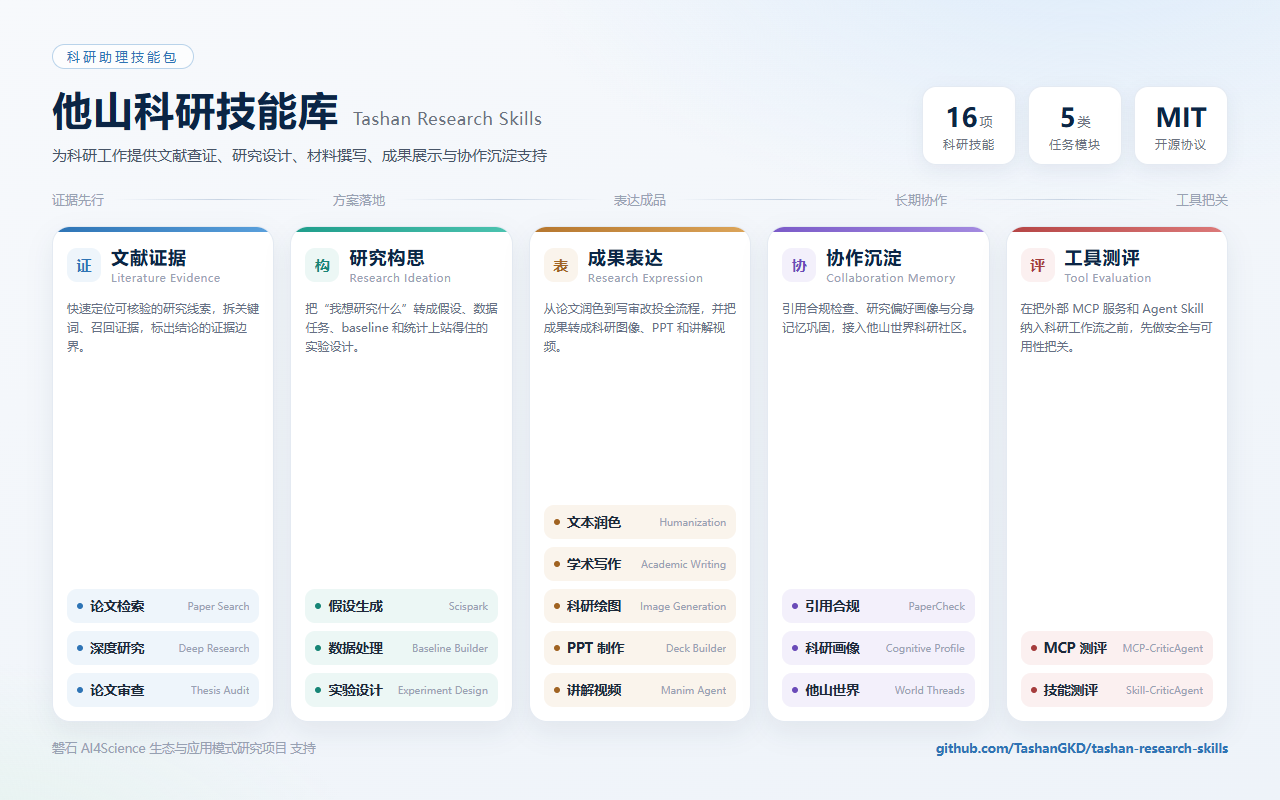
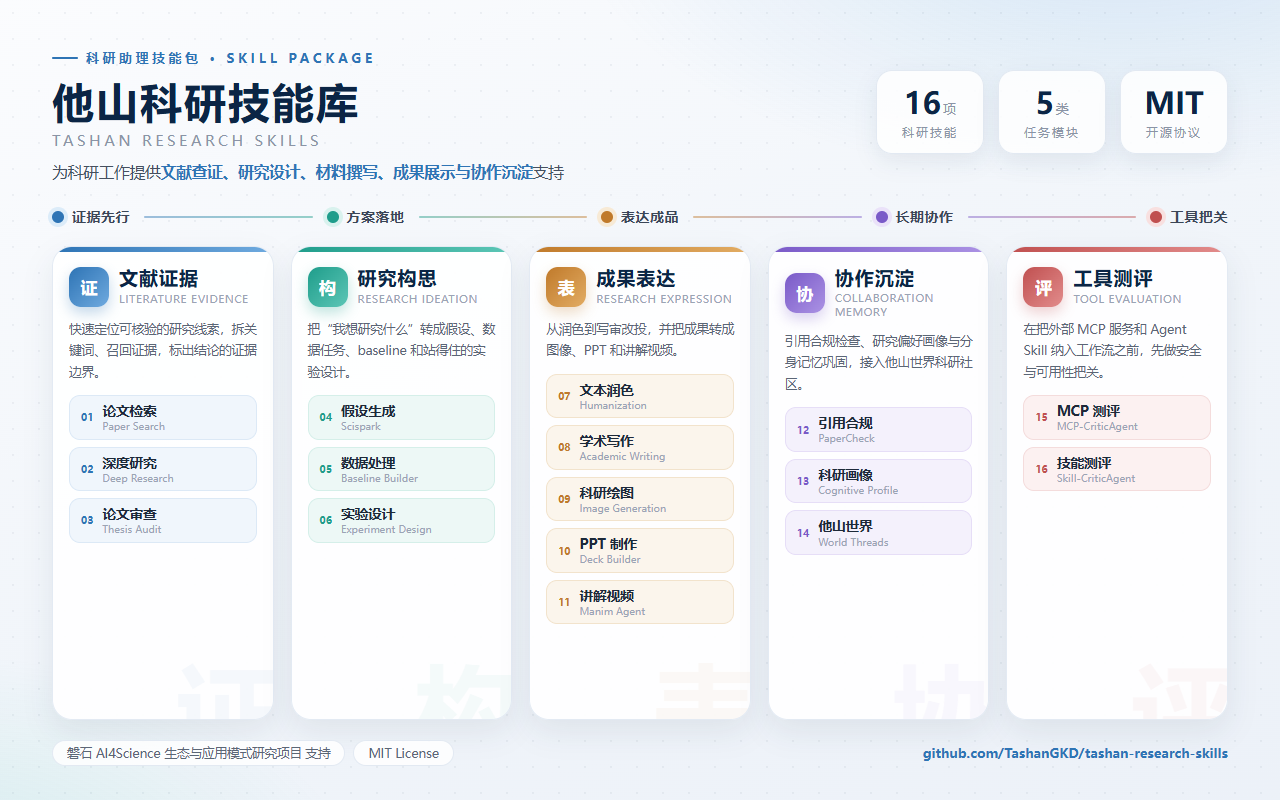
docs(assets): redesign overview art with balanced cards and numbered skill chips

diff --git a/assets/research-skills-overview.html b/assets/research-skills-overview.html
@@ -4,99 +4,134 @@
 <meta charset="UTF-8">
 <title>他山科研技能库 · 概览图</title>
 <!--
-  仓库首页概览图源文件。
-  修改后用浏览器打开，按 1280x800 视口截图，替换 assets/research-skills-overview.png。
+  仓库首页概览图源文件（设计画布 1280x800）。
+  出图方法：浏览器打开 research-skills-overview.html?x2 （画布放大为 2560x1600），
+  对 #canvas 元素截图，替换 assets/research-skills-overview.png。
 -->
 <style>
   * { margin: 0; padding: 0; box-sizing: border-box; }
-  body { font-family: "Microsoft YaHei", "PingFang SC", "Noto Sans SC", sans-serif; }
+  body { font-family: "Microsoft YaHei", "PingFang SC", "Noto Sans SC", sans-serif; background: #e9edf3; }
+
   #canvas {
-    width: 1280px; height: 800px; overflow: hidden;
+    width: 1280px; height: 800px; overflow: hidden; position: relative;
     background:
-      radial-gradient(1000px 500px at 85% -10%, #dcebfa 0%, rgba(220,235,250,0) 60%),
-      radial-gradient(800px 400px at -5% 110%, #e3f2ec 0%, rgba(227,242,236,0) 55%),
-      linear-gradient(160deg, #f7f9fc 0%, #eef3f9 100%);
-    padding: 44px 52px;
-    display: flex;
-    flex-direction: column;
+      radial-gradient(900px 460px at 88% -12%, rgba(90,160,220,.22) 0%, rgba(90,160,220,0) 62%),
+      radial-gradient(760px 420px at -6% 112%, rgba(76,195,176,.18) 0%, rgba(76,195,176,0) 58%),
+      linear-gradient(158deg, #fbfcfe 0%, #f1f5fa 52%, #ecf1f8 100%);
+    padding: 42px 52px 34px;
+    display: flex; flex-direction: column;
+  }
+  /* faint dot texture */
+  #canvas::before {
+    content: ""; position: absolute; inset: 0; pointer-events: none;
+    background-image: radial-gradient(rgba(11,37,69,.05) 1px, transparent 1px);
+    background-size: 26px 26px;
   }
 
-  /* ---------- header ---------- */
-  .header { display: flex; align-items: flex-end; justify-content: space-between; margin-bottom: 12px; }
-  .title-block .kicker {
-    display: inline-block; font-size: 13px; letter-spacing: 3px; color: #2E74B5;
-    border: 1px solid #b9d3ea; border-radius: 999px; padding: 3px 14px; margin-bottom: 14px;
-    background: rgba(255,255,255,.7);
+  /* ================= header ================= */
+  .header { display: flex; align-items: center; justify-content: space-between; position: relative; }
+  .kicker {
+    display: inline-flex; align-items: center; gap: 8px;
+    font-size: 12.5px; letter-spacing: 4px; color: #2E74B5; font-weight: 600;
+    margin-bottom: 12px;
   }
-  .title-block h1 { font-size: 40px; color: #0B2545; letter-spacing: 1px; }
-  .title-block h1 .en { font-size: 17px; font-weight: 500; color: #6B7280; margin-left: 14px; letter-spacing: .5px; }
-  .title-block .tagline { margin-top: 10px; font-size: 15px; color: #475467; }
-  .stats { display: flex; gap: 12px; }
+  .kicker::before { content: ""; width: 26px; height: 2px; background: #2E74B5; border-radius: 2px; }
+  h1 { font-size: 42px; color: #0B2545; letter-spacing: 2px; line-height: 1.15; }
+  h1 .en {
+    display: block; font-size: 15px; font-weight: 500; color: #8a94a6;
+    letter-spacing: 3.5px; margin-top: 6px; text-transform: uppercase;
+  }
+  .tagline { margin-top: 12px; font-size: 15.5px; color: #45505f; }
+  .tagline b { color: #2E74B5; font-weight: 600; }
+
+  .stats { display: flex; gap: 14px; }
   .stat {
-    background: #ffffff; border: 1px solid #e4eaf2; border-radius: 14px;
-    padding: 12px 20px; text-align: center; box-shadow: 0 6px 18px rgba(11,37,69,.06);
+    width: 108px; padding: 16px 0 13px; text-align: center;
+    background: rgba(255,255,255,.85); border: 1px solid #e2e9f2; border-radius: 16px;
+    box-shadow: 0 8px 22px rgba(11,37,69,.07);
   }
-  .stat .num { font-size: 26px; font-weight: 700; color: #0B2545; }
-  .stat .num small { font-size: 13px; font-weight: 500; color: #6B7280; margin-left: 2px; }
-  .stat .label { font-size: 12px; color: #6B7280; margin-top: 2px; letter-spacing: 1px; }
+  .stat .num { font-size: 30px; font-weight: 700; color: #0B2545; line-height: 1; }
+  .stat .num small { font-size: 13px; font-weight: 500; color: #8a94a6; margin-left: 2px; }
+  .stat .label { font-size: 12px; color: #8a94a6; margin-top: 7px; letter-spacing: 2px; }
 
-  /* ---------- pipeline hint ---------- */
-  .flow { display: flex; align-items: center; gap: 10px; margin: 14px 0 18px; font-size: 13px; color: #98a2b3; }
-  .flow .line { flex: 1; height: 1px; background: linear-gradient(90deg, transparent, #c8d4e3, transparent); }
+  /* ================= stepper ================= */
+  .stepper { display: flex; align-items: center; margin: 26px 0 20px; position: relative; }
+  .step { display: flex; align-items: center; gap: 8px; }
+  .step .pin {
+    width: 12px; height: 12px; border-radius: 50%;
+    background: var(--c); box-shadow: 0 0 0 4px var(--c-soft);
+  }
+  .step .txt { font-size: 13.5px; font-weight: 600; color: #3b4657; letter-spacing: 1px; }
+  .conn { flex: 1; height: 2px; margin: 0 14px; border-radius: 2px;
+    background: linear-gradient(90deg, var(--from), var(--to)); opacity: .45; }
 
-  /* ---------- module grid ---------- */
-  .grid { display: grid; grid-template-columns: repeat(5, 1fr); gap: 16px; flex: 1; }
+  /* ================= module grid ================= */
+  .grid { display: grid; grid-template-columns: repeat(5, 1fr); gap: 17px; flex: 1; position: relative; }
   .card {
-    background: #ffffff; border: 1px solid #e4eaf2; border-radius: 18px;
-    padding: 18px 14px 14px; display: flex; flex-direction: column;
-    box-shadow: 0 10px 26px rgba(11,37,69,.07);
-    position: relative; overflow: hidden;
+    background: rgba(255,255,255,.94); border: 1px solid #e3eaf3; border-radius: 20px;
+    padding: 20px 16px 14px; position: relative; overflow: hidden;
+    box-shadow: 0 12px 30px rgba(11,37,69,.08);
+    display: flex; flex-direction: column;
   }
   .card::before {
     content: ""; position: absolute; top: 0; left: 0; right: 0; height: 5px;
-    background: var(--accent);
+    background: linear-gradient(90deg, var(--c), var(--c-light));
   }
-  .card .mod-head { display: flex; align-items: center; gap: 10px; margin-bottom: 6px; }
-  .card .dot {
-    width: 34px; height: 34px; border-radius: 10px; flex: none;
-    background: var(--accent-soft); color: var(--accent-deep);
+  /* watermark glyph fills the visual bottom space */
+  .card::after {
+    content: attr(data-glyph); position: absolute; right: -8px; bottom: -42px;
+    font-size: 104px; font-weight: 700; color: var(--c);
+    opacity: .045; line-height: 1; pointer-events: none;
+  }
+  .mod-head { display: flex; align-items: center; gap: 10px; }
+  .dot {
+    width: 40px; height: 40px; border-radius: 12px; flex: none;
+    background: linear-gradient(135deg, var(--c), var(--c-light)); color: #fff;
     display: flex; align-items: center; justify-content: center;
-    font-size: 15px; font-weight: 700;
+    font-size: 17px; font-weight: 700;
+    box-shadow: 0 6px 14px var(--c-shadow);
   }
-  .card h2 { font-size: 18px; color: #0B2545; letter-spacing: 1px; }
-  .card .mod-en { font-size: 11px; color: #98a2b3; letter-spacing: .5px; margin-top: 1px; }
-  .card .mod-desc { font-size: 12px; color: #667085; line-height: 1.6; margin: 8px 0 12px; min-height: 57px; }
-  .chips { display: flex; flex-direction: column; gap: 8px; margin-top: auto; }
+  .mod-head h2 { font-size: 18.5px; color: #0B2545; letter-spacing: 1.5px; line-height: 1.2; }
+  .mod-en { font-size: 10.5px; color: #9aa4b5; letter-spacing: .8px; margin-top: 2px; }
+  .mod-desc { font-size: 12.5px; color: #5b6676; line-height: 1.72; margin: 12px 0 12px; }
+
+  .chips { display: flex; flex-direction: column; gap: 7px; position: relative; }
   .chip {
-    display: flex; align-items: center; gap: 7px;
-    background: var(--accent-soft); border-radius: 10px; padding: 8px 10px;
-    white-space: nowrap;
+    display: flex; align-items: center; gap: 9px;
+    background: var(--c-soft); border: 1px solid var(--c-border); border-radius: 11px;
+    padding: 6px 11px;
   }
-  .chip::before { content: ""; width: 6px; height: 6px; border-radius: 50%; background: var(--accent-deep); flex: none; }
-  .chip .zh { font-size: 13.5px; font-weight: 600; color: #1d2939; white-space: nowrap; }
-  .chip .en { font-size: 10px; color: #98a2b3; margin-left: auto; white-space: nowrap; overflow: hidden; text-overflow: ellipsis; }
+  .chip .idx { font-size: 10px; font-weight: 700; color: var(--c); flex: none; }
+  .chip .names { display: flex; flex-direction: column; min-width: 0; }
+  .chip .zh { font-size: 13.5px; font-weight: 600; color: #1d2939; white-space: nowrap; line-height: 1.35; }
+  .chip .en { font-size: 9.5px; color: #9aa4b5; white-space: nowrap; letter-spacing: .3px; line-height: 1.3; }
 
-  .c1 { --accent: linear-gradient(90deg,#2E74B5,#5AA0DC); --accent-soft: #eef5fb; --accent-deep: #2E74B5; }
-  .c2 { --accent: linear-gradient(90deg,#1F9D8B,#4CC3B0); --accent-soft: #ecf7f5; --accent-deep: #178576; }
-  .c3 { --accent: linear-gradient(90deg,#B5762E,#DCA55A); --accent-soft: #faf4ec; --accent-deep: #a06322; }
-  .c4 { --accent: linear-gradient(90deg,#7A5AC8,#A48BE0); --accent-soft: #f3f0fb; --accent-deep: #6a4bb8; }
-  .c5 { --accent: linear-gradient(90deg,#B54545,#DC7A7A); --accent-soft: #fbf0f0; --accent-deep: #a53d3d; }
+  .c1 { --c:#2E74B5; --c-light:#6FAADF; --c-soft:#f0f6fc; --c-border:#dcE9f6; --c-shadow:rgba(46,116,181,.28); }
+  .c2 { --c:#1F9D8B; --c-light:#5CC6B6; --c-soft:#edf8f6; --c-border:#d5efe9; --c-shadow:rgba(31,157,139,.28); }
+  .c3 { --c:#C07A2B; --c-light:#E2AC63; --c-soft:#fbf5ec; --c-border:#f2e3cc; --c-shadow:rgba(192,122,43,.26); }
+  .c4 { --c:#7A5AC8; --c-light:#AB92E4; --c-soft:#f4f1fc; --c-border:#e6def7; --c-shadow:rgba(122,90,200,.28); }
+  .c5 { --c:#C05050; --c-light:#E28C8C; --c-soft:#fcf1f1; --c-border:#f4dcdc; --c-shadow:rgba(192,80,80,.26); }
 
-  /* ---------- footer ---------- */
+  /* ================= footer ================= */
   .footer {
-    margin-top: 18px; display: flex; align-items: center; justify-content: space-between;
-    font-size: 12.5px; color: #98a2b3;
+    margin-top: 20px; display: flex; align-items: center; justify-content: space-between;
+    font-size: 12.5px; color: #9aa4b5; position: relative;
   }
-  .footer .repo { color: #2E74B5; font-weight: 600; }
+  .footer .left { display: flex; align-items: center; gap: 8px; }
+  .footer .badge {
+    background: rgba(255,255,255,.85); border: 1px solid #e2e9f2; border-radius: 999px;
+    padding: 4px 14px; color: #5b6676;
+  }
+  .footer .repo { color: #2E74B5; font-weight: 600; letter-spacing: .3px; }
 </style>
 </head>
 <body>
 <div id="canvas">
   <div class="header">
-    <div class="title-block">
-      <div class="kicker">科研助理技能包</div>
+    <div>
+      <div class="kicker">科研助理技能包 · SKILL PACKAGE</div>
       <h1>他山科研技能库<span class="en">Tashan Research Skills</span></h1>
-      <div class="tagline">为科研工作提供文献查证、研究设计、材料撰写、成果展示与协作沉淀支持</div>
+      <div class="tagline">为科研工作提供<b>文献查证、研究设计、材料撰写、成果展示与协作沉淀</b>支持</div>
     </div>
     <div class="stats">
       <div class="stat"><div class="num">16<small>项</small></div><div class="label">科研技能</div></div>
@@ -105,61 +140,78 @@
     </div>
   </div>
 
-  <div class="flow"><span>证据先行</span><div class="line"></div><span>方案落地</span><div class="line"></div><span>表达成品</span><div class="line"></div><span>长期协作</span><div class="line"></div><span>工具把关</span></div>
+  <div class="stepper">
+    <div class="step" style="--c:#2E74B5;--c-soft:#dcecf9"><div class="pin"></div><div class="txt">证据先行</div></div>
+    <div class="conn" style="--from:#2E74B5;--to:#1F9D8B"></div>
+    <div class="step" style="--c:#1F9D8B;--c-soft:#d9f2ee"><div class="pin"></div><div class="txt">方案落地</div></div>
+    <div class="conn" style="--from:#1F9D8B;--to:#C07A2B"></div>
+    <div class="step" style="--c:#C07A2B;--c-soft:#f7ead6"><div class="pin"></div><div class="txt">表达成品</div></div>
+    <div class="conn" style="--from:#C07A2B;--to:#7A5AC8"></div>
+    <div class="step" style="--c:#7A5AC8;--c-soft:#eae2f9"><div class="pin"></div><div class="txt">长期协作</div></div>
+    <div class="conn" style="--from:#7A5AC8;--to:#C05050"></div>
+    <div class="step" style="--c:#C05050;--c-soft:#f8e0e0"><div class="pin"></div><div class="txt">工具把关</div></div>
+  </div>
 
   <div class="grid">
-    <div class="card c1">
-      <div class="mod-head"><div class="dot">证</div><div><h2>文献证据</h2><div class="mod-en">Literature Evidence</div></div></div>
+    <div class="card c1" data-glyph="证">
+      <div class="mod-head"><div class="dot">证</div><div><h2>文献证据</h2><div class="mod-en">LITERATURE EVIDENCE</div></div></div>
       <div class="mod-desc">快速定位可核验的研究线索，拆关键词、召回证据，标出结论的证据边界。</div>
       <div class="chips">
-        <div class="chip"><span class="zh">论文检索</span><span class="en">Paper Search</span></div>
-        <div class="chip"><span class="zh">深度研究</span><span class="en">Deep Research</span></div>
-        <div class="chip"><span class="zh">论文审查</span><span class="en">Thesis Audit</span></div>
+        <div class="chip"><span class="idx">01</span><span class="names"><span class="zh">论文检索</span><span class="en">Paper Search</span></span></div>
+        <div class="chip"><span class="idx">02</span><span class="names"><span class="zh">深度研究</span><span class="en">Deep Research</span></span></div>
+        <div class="chip"><span class="idx">03</span><span class="names"><span class="zh">论文审查</span><span class="en">Thesis Audit</span></span></div>
       </div>
     </div>
-    <div class="card c2">
-      <div class="mod-head"><div class="dot">构</div><div><h2>研究构思</h2><div class="mod-en">Research Ideation</div></div></div>
-      <div class="mod-desc">把“我想研究什么”转成假设、数据任务、baseline 和统计上站得住的实验设计。</div>
+    <div class="card c2" data-glyph="构">
+      <div class="mod-head"><div class="dot">构</div><div><h2>研究构思</h2><div class="mod-en">RESEARCH IDEATION</div></div></div>
+      <div class="mod-desc">把“我想研究什么”转成假设、数据任务、baseline 和站得住的实验设计。</div>
       <div class="chips">
-        <div class="chip"><span class="zh">假设生成</span><span class="en">Scispark</span></div>
-        <div class="chip"><span class="zh">数据处理</span><span class="en">Baseline Builder</span></div>
-        <div class="chip"><span class="zh">实验设计</span><span class="en">Experiment Design</span></div>
+        <div class="chip"><span class="idx">04</span><span class="names"><span class="zh">假设生成</span><span class="en">Scispark</span></span></div>
+        <div class="chip"><span class="idx">05</span><span class="names"><span class="zh">数据处理</span><span class="en">Baseline Builder</span></span></div>
+        <div class="chip"><span class="idx">06</span><span class="names"><span class="zh">实验设计</span><span class="en">Experiment Design</span></span></div>
       </div>
     </div>
-    <div class="card c3">
-      <div class="mod-head"><div class="dot">表</div><div><h2>成果表达</h2><div class="mod-en">Research Expression</div></div></div>
-      <div class="mod-desc">从论文润色到写审改投全流程，并把成果转成科研图像、PPT 和讲解视频。</div>
+    <div class="card c3" data-glyph="表">
+      <div class="mod-head"><div class="dot">表</div><div><h2>成果表达</h2><div class="mod-en">RESEARCH EXPRESSION</div></div></div>
+      <div class="mod-desc">从润色到写审改投，并把成果转成图像、PPT 和讲解视频。</div>
       <div class="chips">
-        <div class="chip"><span class="zh">文本润色</span><span class="en">Humanization</span></div>
-        <div class="chip"><span class="zh">学术写作</span><span class="en">Academic Writing</span></div>
-        <div class="chip"><span class="zh">科研绘图</span><span class="en">Image Generation</span></div>
-        <div class="chip"><span class="zh">PPT 制作</span><span class="en">Deck Builder</span></div>
-        <div class="chip"><span class="zh">讲解视频</span><span class="en">Manim Agent</span></div>
+        <div class="chip"><span class="idx">07</span><span class="names"><span class="zh">文本润色</span><span class="en">Humanization</span></span></div>
+        <div class="chip"><span class="idx">08</span><span class="names"><span class="zh">学术写作</span><span class="en">Academic Writing</span></span></div>
+        <div class="chip"><span class="idx">09</span><span class="names"><span class="zh">科研绘图</span><span class="en">Image Generation</span></span></div>
+        <div class="chip"><span class="idx">10</span><span class="names"><span class="zh">PPT 制作</span><span class="en">Deck Builder</span></span></div>
+        <div class="chip"><span class="idx">11</span><span class="names"><span class="zh">讲解视频</span><span class="en">Manim Agent</span></span></div>
       </div>
     </div>
-    <div class="card c4">
-      <div class="mod-head"><div class="dot">协</div><div><h2>协作沉淀</h2><div class="mod-en">Collaboration Memory</div></div></div>
+    <div class="card c4" data-glyph="协">
+      <div class="mod-head"><div class="dot">协</div><div><h2>协作沉淀</h2><div class="mod-en">COLLABORATION MEMORY</div></div></div>
       <div class="mod-desc">引用合规检查、研究偏好画像与分身记忆巩固，接入他山世界科研社区。</div>
       <div class="chips">
-        <div class="chip"><span class="zh">引用合规</span><span class="en">PaperCheck</span></div>
-        <div class="chip"><span class="zh">科研画像</span><span class="en">Cognitive Profile</span></div>
-        <div class="chip"><span class="zh">他山世界</span><span class="en">World Threads</span></div>
+        <div class="chip"><span class="idx">12</span><span class="names"><span class="zh">引用合规</span><span class="en">PaperCheck</span></span></div>
+        <div class="chip"><span class="idx">13</span><span class="names"><span class="zh">科研画像</span><span class="en">Cognitive Profile</span></span></div>
+        <div class="chip"><span class="idx">14</span><span class="names"><span class="zh">他山世界</span><span class="en">World Threads</span></span></div>
       </div>
     </div>
-    <div class="card c5">
-      <div class="mod-head"><div class="dot">评</div><div><h2>工具测评</h2><div class="mod-en">Tool Evaluation</div></div></div>
-      <div class="mod-desc">在把外部 MCP 服务和 Agent Skill 纳入科研工作流之前，先做安全与可用性把关。</div>
+    <div class="card c5" data-glyph="评">
+      <div class="mod-head"><div class="dot">评</div><div><h2>工具测评</h2><div class="mod-en">TOOL EVALUATION</div></div></div>
+      <div class="mod-desc">在把外部 MCP 服务和 Agent Skill 纳入工作流之前，先做安全与可用性把关。</div>
       <div class="chips">
-        <div class="chip"><span class="zh">MCP 测评</span><span class="en">MCP-CriticAgent</span></div>
-        <div class="chip"><span class="zh">技能测评</span><span class="en">Skill-CriticAgent</span></div>
+        <div class="chip"><span class="idx">15</span><span class="names"><span class="zh">MCP 测评</span><span class="en">MCP-CriticAgent</span></span></div>
+        <div class="chip"><span class="idx">16</span><span class="names"><span class="zh">技能测评</span><span class="en">Skill-CriticAgent</span></span></div>
       </div>
     </div>
   </div>
 
   <div class="footer">
-    <span>磐石 AI4Science 生态与应用模式研究项目 支持</span>
+    <div class="left">
+      <span class="badge">磐石 AI4Science 生态与应用模式研究项目 支持</span>
+      <span class="badge">MIT License</span>
+    </div>
     <span class="repo">github.com/TashanGKD/tashan-research-skills</span>
   </div>
 </div>
+<script>
+  // ?x2 -> render at 2x for crisp PNG export
+  if (location.search.includes("x2")) document.getElementById("canvas").style.zoom = 2;
+</script>
 </body>
 </html>
